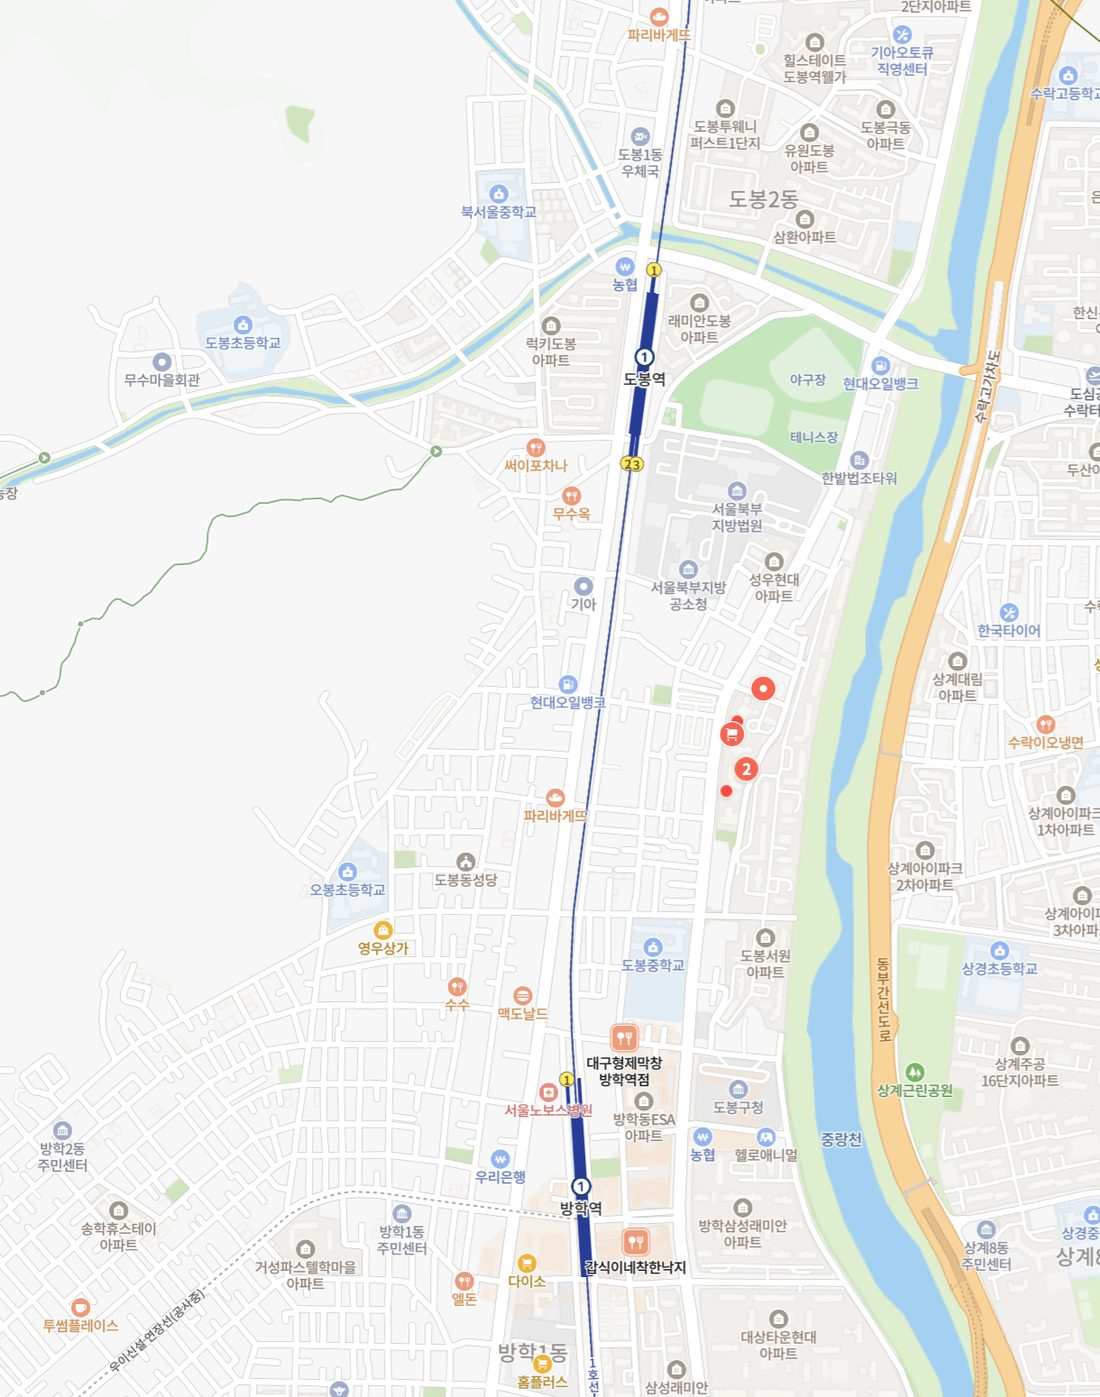
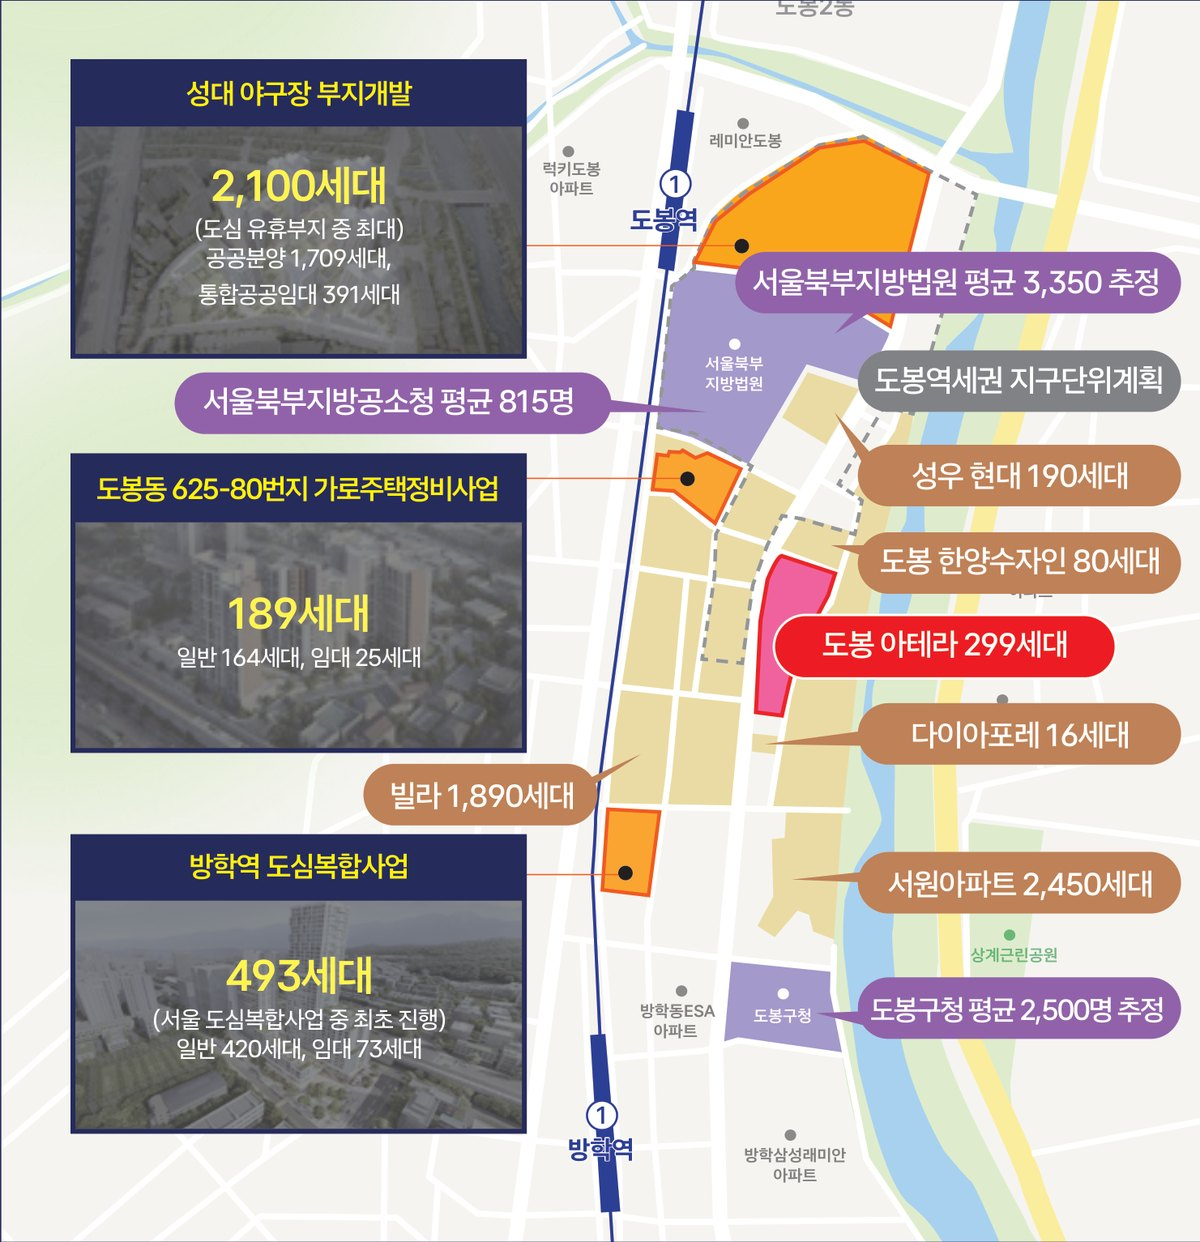
배후수요 지도 가이드북 표시판, 그래프 범위 점선·114호 예시 중복 삭제, MD 카드→배치도 반짝(작은 배치도)

diff --git a/floorplan/index.html b/floorplan/index.html
@@ -111,6 +111,16 @@
   </div>
 </div></div>
 </section>
+<section class="sec sec-gray" id="md">
+  <div class="wrap">
+    <div class="sec-head reveal"><p class="eyebrow">MD 구성</p><h2 class="h2">365일 발길을 모으도록 계획한<br><em>맞춤형 MD 구성</em> (예정)</h2></div>
+    <div class="md-mini" data-md-mini aria-hidden="true"></div>
+    <div class="zones">
+      <div class="zone reveal" style="--zc:#4F9D69;--d:0ms" data-zone-card="medical"><span class="zone-h">메디컬 zone</span><b>101~104호</b><p>창고형 약국 · 약국+내과 · 이비인후과·치과 · 메디컬 리테일</p></div><div class="zone reveal" style="--zc:#C0622F;--d:70ms" data-zone-card="fnb"><span class="zone-h">F&B zone</span><b>106~109호 · 204~208호</b><p>생활 F&amp;B · Take-out F&amp;B · Trendy F&amp;B</p></div><div class="zone reveal" style="--zc:#2D8FD0;--d:140ms" data-zone-card="life"><span class="zone-h">생활편의 zone</span><b>111~113호</b><p>반찬 · 정육 · 편의점 · 세탁무인매장 · 생활 서비스</p></div><div class="zone reveal" style="--zc:#17A398;--d:210ms" data-zone-card="retail"><span class="zone-h">대형 리테일</span><b>114~117호</b><p>이마트 에브리데이 영업 중</p></div><div class="zone reveal" style="--zc:#D9577F;--d:280ms" data-zone-card="beauty"><span class="zone-h">뷰티 zone</span><b>201~202호</b><p>헤어 · 네일 · 피부관리 등 주거 밀착 재방문 업종</p></div><div class="zone reveal" style="--zc:#5B55B8;--d:350ms" data-zone-card="solo"><span class="zone-h">단독 F&B</span><b>301~303호</b><p>중대형 디저트카페 · 패밀리식당 · 중식 · 고깃집</p></div>
+    </div>
+    <p class="note">※ MD 구성은 계획안으로 실제 입점 업종과 다를 수 있습니다.</p>
+  </div>
+</section>
 <section class="board sec" id="status">
   <div class="wrap">
     <div class="sec-head reveal">
@@ -125,15 +135,6 @@
     <div class="brand-row reveal" data-brands></div>
     <p class="note loi-note reveal">※ LOI(입점의향서)는 법적 구속력이 없는 협의 단계로 입점이 확정된 것이 아닙니다. 영업 중·입점 예정 외 브랜드는 바뀔 수 있습니다. 로고의 상표권은 각 사에 있습니다.</p>
     <div class="center reveal"><a class="btn btn-navy" href="/floorplan/">입점·LOI 현황 배치도에서 보기 →</a></div>
-  </div>
-</section>
-<section class="sec sec-gray" id="md">
-  <div class="wrap">
-    <div class="sec-head reveal"><p class="eyebrow">MD 구성</p><h2 class="h2">365일 발길을 모으도록 계획한<br><em>맞춤형 MD 구성</em> (예정)</h2></div>
-    <div class="zones">
-      <div class="zone reveal" style="--zc:#4F9D69;--d:0ms" data-zone-card="medical"><span class="zone-h">메디컬 zone</span><b>101~104호</b><p>창고형 약국 · 약국+내과 · 이비인후과·치과 · 메디컬 리테일</p></div><div class="zone reveal" style="--zc:#C0622F;--d:70ms" data-zone-card="fnb"><span class="zone-h">F&B zone</span><b>106~109호 · 204~208호</b><p>생활 F&amp;B · Take-out F&amp;B · Trendy F&amp;B</p></div><div class="zone reveal" style="--zc:#2D8FD0;--d:140ms" data-zone-card="life"><span class="zone-h">생활편의 zone</span><b>111~113호</b><p>반찬 · 정육 · 편의점 · 세탁무인매장 · 생활 서비스</p></div><div class="zone reveal" style="--zc:#17A398;--d:210ms" data-zone-card="retail"><span class="zone-h">대형 리테일</span><b>114~117호</b><p>이마트 에브리데이 영업 중</p></div><div class="zone reveal" style="--zc:#D9577F;--d:280ms" data-zone-card="beauty"><span class="zone-h">뷰티 zone</span><b>201~202호</b><p>헤어 · 네일 · 피부관리 등 주거 밀착 재방문 업종</p></div><div class="zone reveal" style="--zc:#5B55B8;--d:350ms" data-zone-card="solo"><span class="zone-h">단독 F&B</span><b>301~303호</b><p>중대형 디저트카페 · 패밀리식당 · 중식 · 고깃집</p></div>
-    </div>
-    <p class="note">※ MD 구성은 계획안으로 실제 입점 업종과 다를 수 있습니다.</p>
   </div>
 </section>
 <section class="sec" id="list">

diff --git a/assets/site.js b/assets/site.js
@@ -617,6 +617,13 @@
       var v = $('b', b); if (!v) return;
       v.innerHTML = '<span data-count-to="' + v.textContent.replace(/[^\d.]/g, '') + '" data-delay="' + (i * 220) + '" data-dur="1100">0</span>';
     });
+    // 11-06 막대 꼭대기 높이 점선(범위 표시): 막대 안에 두고 그래프 폭만큼 왼쪽으로 늘림
+    var lvls = bars.map(function (b) { var l = document.createElement('i'); l.className = 'lvl'; l.setAttribute('aria-hidden', 'true'); b.appendChild(l); return l; });
+    function placeLvls() {
+      var pad = parseFloat(getComputedStyle(box).paddingLeft) || 0;
+      bars.forEach(function (b, i) { lvls[i].style.left = (pad - b.offsetLeft) + 'px'; lvls[i].style.width = (box.clientWidth - pad * 2) + 'px'; });
+    }
+    placeLvls(); addEventListener('resize', placeLvls); addEventListener('load', placeLvls);
     function play() {
       last = Date.now();
       box.classList.add('reset'); box.classList.remove('go'); void box.offsetWidth;
@@ -629,6 +636,46 @@
     } else play();
     box.addEventListener('mouseenter', function () { if (Date.now() - last > 2500) play(); });
   });
+
+  // ── 11-06 MD 구역 카드에 마우스(휴대폰은 누름) → 카드 바로 위 작은 배치도와 큰 배치도에서 그 구역 호실이 구역 색으로 반짝
+  (function () {
+    var fpBox = $('.fp'), cards = $$('[data-zone-card]'), mini = $('[data-md-mini]');
+    if (!fpBox || !cards.length) return;
+    // 작은 배치도: 큰 배치도 그림을 복사(걷는 점·id 겹침 빼고), 호실은 MD 구역 색
+    if (mini) {
+      var src = $('.fp-svg', fpBox), svg = src && src.cloneNode(true);
+      if (svg) {
+        $$('defs, .walkers', svg).forEach(function (x) { x.parentNode.removeChild(x); });
+        var im = $('.fp-img', svg); if (im && im.getAttribute('data-href')) { im.setAttribute('href', im.getAttribute('data-href')); im.removeAttribute('data-href'); }
+        svg.removeAttribute('aria-label'); svg.setAttribute('class', 'md-mini-svg');
+        $$('.u', svg).forEach(function (g) {
+          var u = UNITS[IDX[g.getAttribute('data-no')]], z = u && u.zone && ZONES[u.zone];
+          g.removeAttribute('tabindex'); g.classList.remove('on', 'dim');
+          g.style.setProperty('--f', z ? z.color : '#C9CDD8'); g.style.setProperty('--t', z ? '#fff' : '#1F2761');
+        });
+        mini.appendChild(svg);
+      }
+    }
+    var roots = [fpBox].concat(mini ? [mini] : []), timer = 0;
+    function spot(k) {
+      clearTimeout(timer);
+      roots.forEach(function (root) {
+        root.classList.toggle('spotting', !!k);
+        $$('.u', root).forEach(function (g) {
+          var u = UNITS[IDX[g.getAttribute('data-no')]], hit = !!(k && u && u.zone === k);
+          g.classList.toggle('spot', hit);
+          if (hit) g.style.setProperty('--zc', ZONES[k].color);
+        });
+      });
+      cards.forEach(function (c) { c.classList.toggle('on', c.getAttribute('data-zone-card') === k); });
+    }
+    cards.forEach(function (c) {
+      var k = c.getAttribute('data-zone-card');
+      c.addEventListener('mouseenter', function () { spot(k); });
+      c.addEventListener('mouseleave', function () { spot(null); });
+      c.addEventListener('click', function () { spot(k); timer = setTimeout(function () { spot(null); }, 4500); });
+    });
+  })();
 
   // ── 문의 폼 (시안: 브라우저에 저장 → 관리자 '문의 접수'에서 확인)
   var params = new URLSearchParams(location.search);

diff --git a/assets/site.css b/assets/site.css
@@ -1064,3 +1064,27 @@ picture{display:contents}
 @keyframes ratioWave{0%{box-shadow:0 8px 22px rgba(31,39,97,.22),0 0 0 0 rgba(241,90,36,.55)}70%{box-shadow:0 8px 22px rgba(31,39,97,.22),0 0 0 16px rgba(241,90,36,0)}100%{box-shadow:0 8px 22px rgba(31,39,97,.22),0 0 0 0 rgba(241,90,36,0)}}
 @media(max-width:900px){.bar .ratio{bottom:calc(100% + 38px);padding:8px 12px 7px}.bar .ratio strong{font-size:34px}.bar .ratio small{font-size:11.5px}}
 @media (prefers-reduced-motion:reduce){.bar .ratio{opacity:1;transform:translateX(-50%)}}
+
+/* 11-06 막대 높이 범위 점선(이도현): 각 막대 꼭대기에서 그래프 폭만큼 옅은 점선 — 막대가 다 자란 뒤 왼쪽부터 그어짐 */
+.bar .lvl{position:absolute;top:0;height:0;border-top:2px dashed rgba(160,166,181,.75);pointer-events:none;transform:scaleX(0);transform-origin:left;opacity:0;transition:transform .7s 1.25s var(--ease),opacity .3s 1.25s;z-index:1}
+.bar-o .lvl{border-top-color:rgba(241,90,36,.55)}
+.bars.go .bar .lvl{transform:scaleX(1);opacity:1}
+.bars.reset .bar .lvl{transition:none!important}
+@media (prefers-reduced-motion:reduce){.bar .lvl{transform:none;opacity:1}}
+
+/* 11-06 MD 구역 카드 ↔ 배치도 반짝 */
+.fp.spotting .u:not(.spot) polygon{fill-opacity:.12}
+.fp.spotting .u:not(.spot) text{fill-opacity:.3}
+.u.spot polygon{fill:var(--zc);fill-opacity:1;stroke:#fff;stroke-width:4;animation:zoneSpot .75s ease-in-out infinite alternate}
+.u.spot text{fill:#fff}
+@keyframes zoneSpot{from{fill-opacity:1;stroke-width:5}to{fill-opacity:.5;stroke-width:2}}
+.zone{cursor:pointer;transition:box-shadow .2s,transform .2s}
+.zone.on{box-shadow:0 0 0 2px var(--zc),var(--sh);transform:translateY(-2px)}
+@media (prefers-reduced-motion:reduce){.u.spot polygon{animation:none}}
+.md-mini{margin:-6px 0 22px;border-radius:4px;overflow:hidden;background:#232838;line-height:0}
+.md-mini-svg{display:block;width:100%;height:auto;pointer-events:none}
+.md-mini .u polygon{fill-opacity:.55;cursor:default}
+.md-mini .u text{font-size:22px}
+.md-mini.spotting .u:not(.spot) polygon{fill-opacity:.12}
+@media(max-width:600px){.md-mini .u text{font-size:26px}.md-mini .fp-anno{display:none}}
+@media(max-width:900px){.md-mini{position:sticky;top:calc(var(--hd) + var(--live) + 6px);z-index:5;box-shadow:0 6px 16px rgba(20,26,69,.25)}}

diff --git a/environment/index.html b/environment/index.html
@@ -79,7 +79,7 @@
   <div class="wrap">
     <div class="sec-head reveal"><p class="eyebrow">배후 수요</p><h2 class="h2"><span data-count-to="7707">7,707</span>세대 주거단지와<br>하루 수천 명의 상주·방문객</h2></div>
     <div class="demand">
-      <figure class="demand-map reveal"><picture><source media="(max-width:900px)" srcset="/assets/img/m/demand-map.jpg"><img src="/assets/img/demand-map.jpg" alt="도봉 아테라 상가 주변 배후수요 지도" loading="lazy"></picture></figure>
+      <figure class="demand-map reveal"><picture><source media="(max-width:900px)" srcset="/assets/img/m/demand-map.jpg"><img src="/assets/img/demand-map.jpg" alt="도봉 아테라 상가 배후수요 지도 — 서원아파트 2,450세대·빌라 1,890세대 등 기존 거주 4,925세대, 성대 야구장 부지개발 2,100세대 등 신규 공급 2,782세대, 서울북부지방법원·도봉구청 상주·방문객" loading="lazy"></picture></figure>
       <div class="reveal">
         <h3 class="h3">배후 세대</h3>
         <div class="tbl-wrap"><table class="tbl">

diff --git a/index.html b/index.html
@@ -235,7 +235,7 @@
     <div class="bars bars-2 reveal" data-bars aria-label="전용 3.3㎡당 가격 비교 (만원)">
       <div class="bar bar-o" style="--h:27%"><b>2,242</b><span>도봉 아테라<br>특별 공급가</span><div class="ratio" aria-label="L사 대비 27% 수준"><small>L사 대비</small><strong><i data-count-to="27" data-delay="900" data-dur="1000">27</i>%</strong><small>수준</small></div></div>
       <div class="bar bar-g" style="--h:100%"><b>8,292</b><span>L사 단지 내 상가<br>1층 평균 공급가</span></div>
-      <p class="bars-note">단위: 만원/<span class="nw">3.3㎡</span> · 114호 예시</p>
+      <p class="bars-note">단위: 만원/<span class="nw">3.3㎡</span></p>
     </div>
   </div>
 </section>
